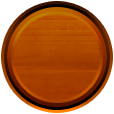
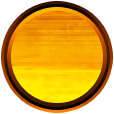
up images

diff --git a/index.js b/index.js
@@ -14,6 +14,7 @@ document.querySelector('#menu').appendChild(app.view);
 let container = new PIXI.Container();
 let bets = new PIXI.Container();
 let coins = new PIXI.Container();
+let info = new PIXI.Container();
 
 
 
@@ -26,13 +27,16 @@ let background = PIXI.Sprite.fromImage('img/bg_copy.png');
 
 
 // create some textures from an image path
-let textureButton = PIXI.Texture.fromImage('img/butt-i-n.png');
-let textureButtonDown = PIXI.Texture.fromImage('img/butt-i-down.png');
-let textureButtonOver = PIXI.Texture.fromImage('img/butt-i-hover.png');
+let textureButtonI = PIXI.Texture.fromImage('img/butt-i.png');
+let textureButtonIDown = PIXI.Texture.fromImage('img/butt-i-down.png');
+let textureButtonIOver = PIXI.Texture.fromImage('img/butt-i-hover.png');
+let textureISign = PIXI.Texture.fromImage('img/info_sign.png');
 
 let textureButtonPlus = PIXI.Texture.fromImage('img/butt-plus.png');
 let textureButtonPlusDown = PIXI.Texture.fromImage('img/butt-plus-down.png');
 let textureButtonPlusOver = PIXI.Texture.fromImage('img/butt-plus-hover.png');
+let textureSignPlus = PIXI.Texture.fromImage('img/plus_sign.png');
+let textureSignMinus = PIXI.Texture.fromImage('img/minus_sign.png')
 
 let textureBet =  PIXI.Texture.fromImage('img/bet_field.png');
 
@@ -43,11 +47,15 @@ let buttons = [];
 
 
 
-let button = new PIXI.Sprite(textureButton);
+let buttonI = new PIXI.Sprite(textureButtonI);
+let signInfo = new PIXI.Sprite(textureISign);
 let buttonPlus = new PIXI.Sprite(textureButtonPlus);
+let signPlus = new PIXI.Sprite(textureSignPlus);
 let buttonMinus = new PIXI.Sprite(textureButtonPlus);
+let signMinus = new PIXI.Sprite(textureSignMinus);
 let betbg = new PIXI.Sprite(textureBet);
 let coinbg = new PIXI.Sprite(textureCoin);
+
 
 
 
@@ -59,9 +67,9 @@ buttonMinus.down = textureButtonPlusDown;
 buttonMinus.over = textureButtonPlusOver;
 buttonMinus.normal = textureButtonPlus;
 
-button.down = textureButtonDown;
-button.over = textureButtonOver;
-button.normal = textureButton;
+buttonI.down = textureButtonIDown;
+buttonI.over = textureButtonIOver;
+buttonI.normal = textureButtonI;
 
 
 
@@ -183,7 +191,7 @@ function onButtonOut() {
 
 
 
-constr(button);
+constr(buttonI);
 constr(buttonPlus);
 constr(buttonMinus);
 
@@ -196,20 +204,35 @@ buttons[1].y = 55;
 buttons[2].x = 345;
 buttons[2].y = 55;
 
+signInfo.anchor.set(.5);
+signInfo.x = 185;
+signInfo.y = 115;
 
+
+signMinus.anchor.set(.5);
+signMinus.x = 55;
+signMinus.y = 55;
+
+signPlus.anchor.set(.5);
+signPlus.x = 345;
+signPlus.y = 55;
+
+
+info.addChild(buttonI,signInfo);
 
 coins.addChild(coinbg);
 coins.x = 665;
 coins.y = 60;
 
-bets.addChild(betbg,buttonPlus,buttonMinus);
+bets.addChild(betbg,buttonPlus,buttonMinus,signPlus,signMinus);
 bets.scale.x = bets.scale.y = (1);
 bets.anchor = (.5);
 bets.x = 250;
 bets.y = 60;
 
 
+
 app.stage.addChild(container);
-container.addChild(background,button, bets,coins );
+container.addChild(background,info,bets,coins );
 container.scale.x = container.scale.y = .5;
 container.y = 40;
